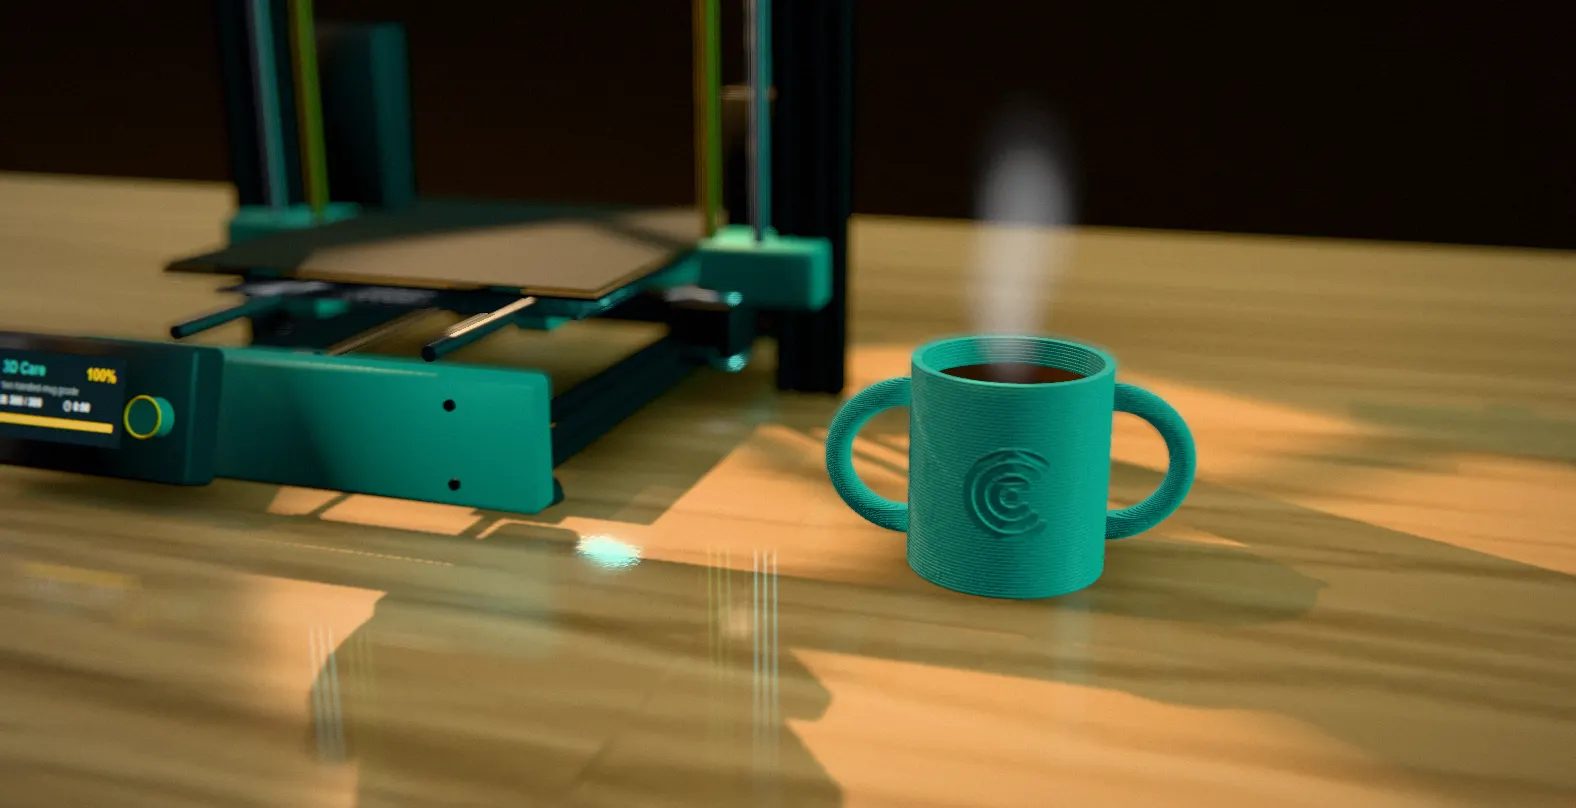
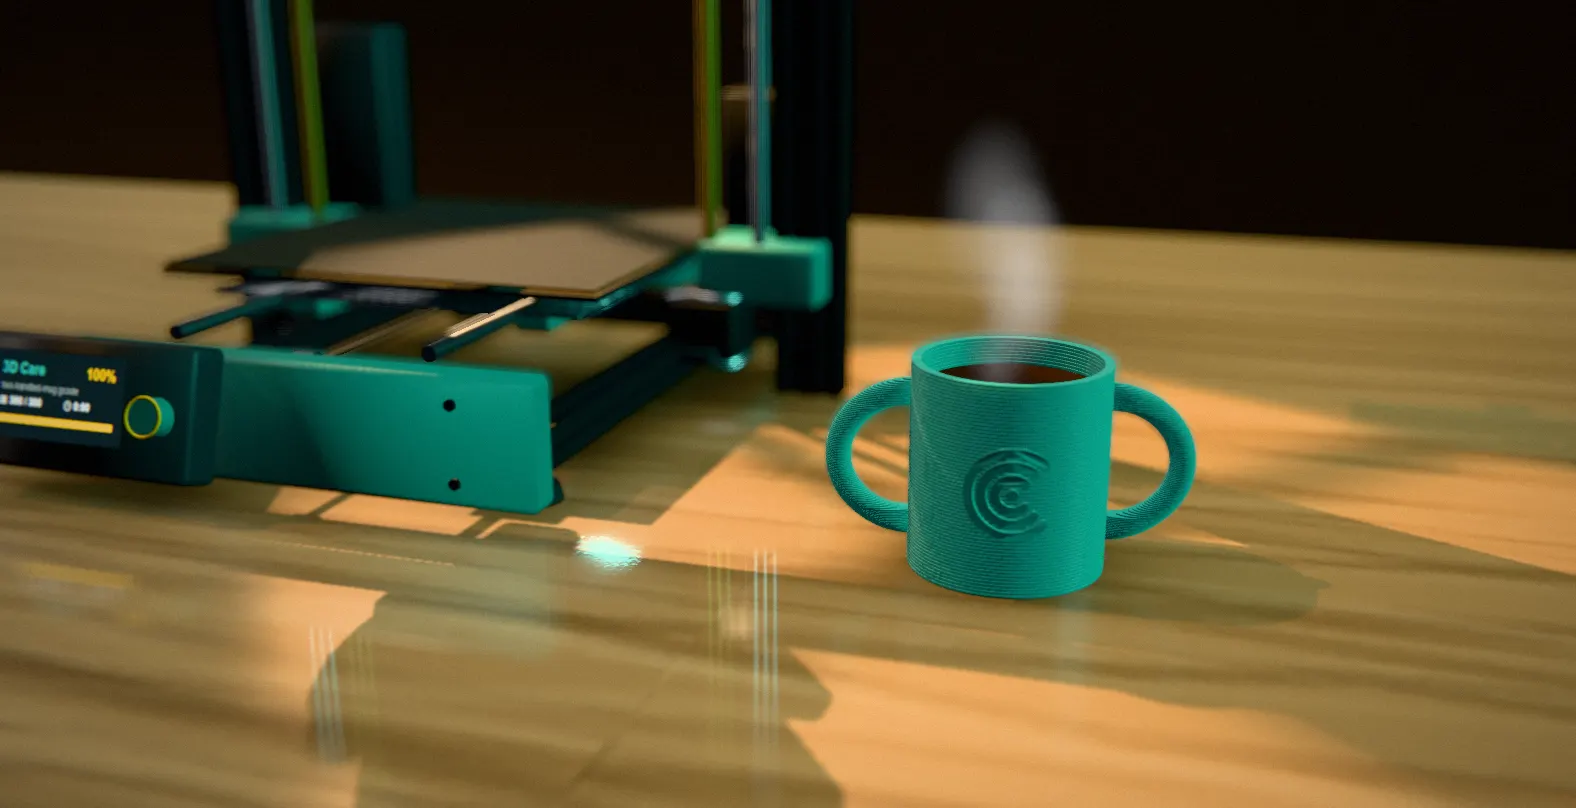
Match the opening detail by detail: lighter oak, the line over the wordmark, a label-like card

Changed region(s): [[0.5907, 0.1547, 0.684, 0.3094], [0.5907, 0.3403, 0.684, 0.495]]

diff --git a/src/app/globals.css b/src/app/globals.css
@@ -1199,7 +1199,8 @@ main:focus {
   position: absolute;
   top: 84px;
   left: max(var(--gutter, 16px), calc((100% - 1120px) / 2 + var(--gutter, 16px)));
-  opacity: calc(1 - var(--fade, 0));
+  /* Out of the way on the opening screen; it comes in once the story starts. */
+  opacity: calc((1 - var(--fade, 0)) * (1 - var(--scroll-hint, 0)));
 }
 
 .story__chapters ol {
@@ -1295,38 +1296,43 @@ main:focus {
   left: 50%;
   bottom: 3svh;
   display: flex;
-  flex-direction: column;
   align-items: center;
-  gap: 8px;
+  gap: 10px;
   margin: 0;
-  color: color-mix(in srgb, var(--ink) 70%, transparent);
-  font-size: 0.8rem;
-  font-weight: 600;
-  letter-spacing: 0.04em;
+  color: #fff6e8;
+  font-size: 0.78rem;
+  font-weight: 700;
+  letter-spacing: 0.02em;
+  text-transform: uppercase;
+  text-shadow: 0 1px 6px rgb(40 22 8 / 0.4);
   opacity: var(--scroll-hint, 1);
   transform: translate(-50%, calc((1 - var(--scroll-hint, 1)) * 10px));
   pointer-events: none;
 }
 
-.story__scroll-hint::after {
-  content: "";
-  width: 1.5px;
-  height: 28px;
-  background: linear-gradient(currentColor, currentColor) top / 100% 40% no-repeat;
-  animation: story-scroll-hint 1.8s cubic-bezier(0.6, 0, 0.3, 1) infinite;
+/* A dotted circle with an arrow that bobs gently. */
+.story__scroll-hint svg {
+  width: 26px;
+  height: 26px;
+  fill: none;
+  stroke: currentColor;
+  stroke-width: 1.4;
+  stroke-linecap: round;
+  stroke-linejoin: round;
+}
+
+.story__scroll-hint path {
+  animation: story-scroll-hint 1.8s ease-in-out infinite;
 }
 
 @keyframes story-scroll-hint {
-  from {
-    background-position: 0 -12px;
-  }
-  to {
-    background-position: 0 30px;
+  50% {
+    transform: translateY(2px);
   }
 }
 
 @media (prefers-reduced-motion: reduce) {
-  .story__scroll-hint::after {
+  .story__scroll-hint path {
     animation: none;
   }
 }
@@ -2743,12 +2749,19 @@ main:focus {
 }
 
 .story__hero-title {
+  max-width: none;
   margin: 0;
-  font-size: 0.95rem;
+  font-size: clamp(0.9rem, 1.2vw, 1.15rem);
   font-weight: 700;
   line-height: 1.3;
-  letter-spacing: 0.02em;
+  letter-spacing: 0;
   text-transform: uppercase;
+}
+
+.story__hero-brand {
+  display: flex;
+  flex-direction: column;
+  gap: 6px;
 }
 
 .story__hero-word {
@@ -2778,18 +2791,22 @@ main:focus {
 }
 
 .story__hero-kicker {
-  margin: 0 0 6px;
-  font-size: 1.05rem;
+  margin: 0 0 18px;
+  font-size: clamp(1.25rem, 1.65vw, 1.55rem);
   font-weight: 800;
-  line-height: 1.15;
+  line-height: 1.12;
+  letter-spacing: -0.01em;
   text-transform: uppercase;
 }
 
+/* Under a dotted rule, a short note set to the right, as on a label. */
 .story__hero-note {
-  margin: 0 0 16px;
-  padding-bottom: 14px;
-  border-bottom: 1px dotted rgb(255 246 232 / 0.6);
-  font-size: 0.92rem;
+  margin: 0 0 18px;
+  padding-top: 16px;
+  border-top: 1px dotted rgb(255 246 232 / 0.75);
+  font-size: 0.98rem;
+  line-height: 1.4;
+  text-align: right;
 }
 
 .story__hero-card .actions {
@@ -2817,18 +2834,21 @@ main:focus {
     display: block;
   }
 
-  .story:not(.story--stills) .story__hero-title {
+  /* The brand sits at the top left; its line ends where the wordmark ends. */
+  .story:not(.story--stills) .story__hero-brand {
     position: absolute;
-    left: calc(3.4vw + 0.6vw);
-    top: calc(max(12svh, 136px) + 14px);
+    left: 3vw;
+    top: 84px;
+    align-items: flex-end;
+  }
+
+  .story:not(.story--stills) .story__hero-title {
     white-space: nowrap;
+    margin-right: 0.6vw;
   }
 
   .story:not(.story--stills) .story__hero-word {
-    position: absolute;
-    left: 3vw;
-    top: calc(max(12svh, 136px) + 38px);
-    font-size: clamp(4rem, 10.5vw, 11rem);
+    font-size: clamp(4rem, 11.5vw, 12rem);
   }
 
   .story:not(.story--stills) .story__hero-lead {
@@ -2841,8 +2861,16 @@ main:focus {
   .story:not(.story--stills) .story__hero-card {
     position: absolute;
     left: 3vw;
-    bottom: 8svh;
-    width: 25rem;
+    bottom: 3svh;
+    width: 20rem;
+    min-height: 42svh;
+    display: flex;
+    flex-direction: column;
+  }
+
+  /* The note and the ways in sit at the bottom of the card. */
+  .story:not(.story--stills) .story__hero-note {
+    margin-top: auto;
   }
 
   .story:not(.story--stills) .story__hero-card .btn {
@@ -2868,4 +2896,41 @@ main:focus {
   background: none;
   -webkit-backdrop-filter: none;
   backdrop-filter: none;
+}
+
+/* On phones the opening keeps the drawing in view: the words at the top,
+   the card at the bottom of the first screen, the desk between them. */
+@media (max-width: 899px) {
+  .story:not(.story--stills) .story__beat--intro {
+    padding-top: 84px;
+  }
+
+  .story:not(.story--stills) .story__hero {
+    min-height: calc(100svh - 84px);
+    gap: 12px;
+  }
+
+  .story:not(.story--stills) .story__hero-lead.lead {
+    font-size: 1rem;
+  }
+
+  .story:not(.story--stills) .story__hero-card {
+    margin-top: auto;
+    margin-bottom: 9svh;
+    padding: 14px 16px;
+  }
+
+  .story:not(.story--stills) .story__hero-note {
+    display: none;
+  }
+
+  .story:not(.story--stills) .story__hero-kicker {
+    margin-bottom: 12px;
+    font-size: 1.05rem;
+  }
+
+  .story:not(.story--stills) .story__hero-card .btn {
+    padding: 10px 16px;
+    font-size: 0.92rem;
+  }
 }

diff --git a/src/components/HomeStory.tsx b/src/components/HomeStory.tsx
@@ -730,6 +730,10 @@ export function HomeStory({ lang, t }: { lang: Locale; t: Dictionary["home"] }) 
         </nav>
         <div className="story__progress" aria-hidden="true" />
         <p className="story__scroll-hint" aria-hidden="true">
+          <svg viewBox="0 0 24 24">
+            <circle cx="12" cy="12" r="11" strokeDasharray="2 2.6" />
+            <path d="M8 10.5l4 4 4-4" />
+          </svg>
           <span>{t.story.scrollHint}</span>
         </p>
         <svg className="story__leaders" aria-hidden="true">
@@ -846,10 +850,13 @@ export function HomeStory({ lang, t }: { lang: Locale; t: Dictionary["home"] }) 
               left, the lead to the right of the desk, and a frosted card at the
               bottom left with the way in. */}
           <div className="story__hero">
-            <h1 id="story-title" className="story__hero-title">{t.title}</h1>
-            <p className="story__hero-word" aria-hidden="true">
-              3D CARE
-            </p>
+            {/* The line sits over the giant wordmark, ending where the wordmark ends. */}
+            <div className="story__hero-brand">
+              <h1 id="story-title" className="story__hero-title">{t.title}</h1>
+              <p className="story__hero-word" aria-hidden="true">
+                3D CARE
+              </p>
+            </div>
             <p className="lead story__hero-lead">{t.lead}</p>
             <div className="story__hero-card">
               <p className="story__hero-kicker">{t.heroCard.kicker}</p>

diff --git a/src/scene/desk.ts b/src/scene/desk.ts
@@ -16,7 +16,7 @@ const CELL = 5.5;
 const PENCIL_SCALE = 2.2;
 const RULER_SCALE = 1.7;
 /** The mat sits right of the middle, so the wooden desk shows under the opening text on the left. */
-const MAT_X = 92;
+const MAT_X = 86;
 const MAT_Z = -42;
 
 /** Something on the desk the visitor can pick up and move. */
@@ -125,14 +125,14 @@ function paintWood(canvas: HTMLCanvasElement) {
   canvas.height = 1200;
   const c = canvas.getContext("2d")!;
   const g = c.createLinearGradient(0, 0, 1800, 1200);
-  g.addColorStop(0, "#8a5a32");
-  g.addColorStop(1, "#6e4424");
+  g.addColorStop(0, "#c9965f");
+  g.addColorStop(1, "#a8743f");
   c.fillStyle = g;
   c.fillRect(0, 0, 1800, 1200);
   for (let i = 0; i < 420; i++) {
     const y = (i * 2.86) % 1200;
     const tone = (i * 37) % 7;
-    c.strokeStyle = tone < 3 ? `rgba(60, 32, 14, ${0.08 + tone * 0.03})` : `rgba(200, 150, 100, ${0.04 + (tone - 3) * 0.02})`;
+    c.strokeStyle = tone < 3 ? `rgba(60, 32, 14, ${0.08 + tone * 0.03})` : `rgba(245, 215, 175, ${0.05 + (tone - 3) * 0.025})`;
     c.lineWidth = 1 + (i % 3);
     c.beginPath();
     for (let x = 0; x <= 1800; x += 60) c.lineTo(x, y + Math.sin(x / 260 + i * 0.7) * 6 + Math.sin(x / 70 + i) * 1.5);

diff --git a/src/scene/runScene.ts b/src/scene/runScene.ts
@@ -1024,7 +1024,7 @@ export async function startScene(canvas: HTMLCanvasElement, opts: SceneOptions):
     // At the close the sunbeam fades, so it does not glare as the camera rises.
     const morning = smoothstep((u - 0.3) / 0.4);
     // Warm daylight through a window falls across the opening desk too.
-    const openingSun = (1 - smoothstep(draw / 0.5)) * 1.1;
+    const openingSun = (1 - smoothstep(draw / 0.5)) * 0.75;
     studio.setMorning(morning, morning > 0 ? mugWorld : deskTarget, Math.max(morning * (1 - smoothstep(outro / 0.25)), openingSun));
     // The opening is shot like a miniature: sharp in the middle, softly blurred towards the edges.
     lens.uniforms.tilt.value = (1 - smoothstep(draw / 0.35)) * (quality.level === 2 ? 1 : 0.6);

diff --git a/CHANGELOG.md b/CHANGELOG.md
@@ -7,6 +7,19 @@ of this repository: https://github.com/laroca00/3dcare/commits/main
 
 ## 2026-10-24
 
+### The opening, matched detail by detail
+- A lighter, honey-coloured oak desk; the mat set a little further left;
+  softer window light.
+- The project's line now sits above the giant "3D CARE", ending where the
+  wordmark ends, and the giant wordmark is larger.
+- The frosted card reads like a label: a large heading in capitals, a
+  dotted rule, a short note set to the right, then the two ways in.
+- The chapter tabs stay out of the way on the opening screen and come in
+  once the story starts; the scroll hint is a dotted circle with an arrow
+  and a short line in capitals.
+- On phones the drawing stays in view between the words at the top and
+  the card at the bottom of the first screen.
+
 ### One look, and a real cutting mat
 - The site now has one look, dark; the light theme and its switch in the
   menu are gone, and the home story's still frames exist once.
